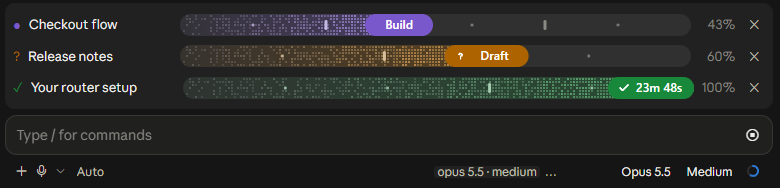
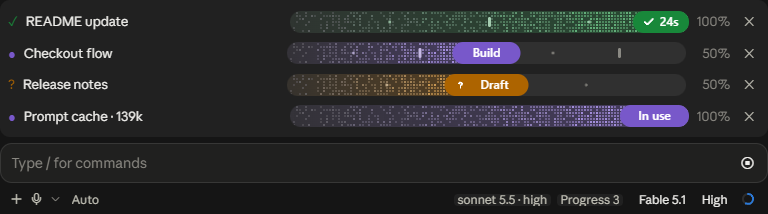
README: new hero screenshot with the cache row, footer chip, words and cache.ttl settings
The top image now shows progress bars in three states plus the prompt-cache
row, captured from the desktop app. The config example gains the words and
cache.ttl keys, the footer chip is described, and the README notes that an
open bar turns amber when a turn ends.

diff --git a/README.md b/README.md
@@ -2,7 +2,7 @@
 
 **Instruments and controls for Claude Code: see where every task is, and choose which model and effort handles it.**
 
-![Cockpit progress bars above the prompt in the Claude desktop app: running, waiting for you, and done](docs/img/bars.png)
+![Cockpit above the prompt in the Claude desktop app: progress bars for a finished, a running and a waiting task, and the prompt-cache row beneath them](docs/img/bars.png)
 
 - **Progress**: live bars above your prompt. Claude's own todo list becomes a bar automatically, so tracking progress costs zero extra tokens.
 - **Router**: you pick a model and effort for quick, normal and hard prompts in a small panel, and every prompt runs on the one that fits.
@@ -48,7 +48,7 @@ Nothing is picked for you. Until you choose, every kind is set to **Keep**, whic
 
 ![The router panel: a model and effort dropdown for each kind of prompt, your rules, the still-broken ladder and the cache saver](docs/img/router.png)
 
-Type `/route` (or click **Set up router** in the footer). A panel opens with a Model and an Effort dropdown for each kind (Keep leaves your own setting). Your choice is saved for every project.
+Type `/route` (or click **Set up router** in the footer). A panel opens with a Model and an Effort dropdown for each kind (Keep leaves your own setting). Your choice is saved for every project. After a routed reply, the footer chip shows what it ran on, such as `opus 5.5 · medium`, and clicking it reopens the panel.
 
 Prefer typing? The same in one line each:
 
@@ -107,11 +107,14 @@ Everything is saved in one file, `~/.claude/cockpit.json`, which the panel and t
   ],
   "top": "fable",
   "saver": true,
-  "cache": { "show": true, "auto": 0 }
+  "words": { "quick": ["changelog"], "hard": ["race condition"] },
+  "cache": { "show": true, "auto": 0, "ttl": "1h" }
 }
 ```
 
-A project can add its own in `.claude/cockpit.json` (same shape; its routes win and its rules come first).
+`words` adds your own words to a kind: the three kinds still use their built-in words. `cache.ttl` pins the cache lifetime; leave it out to let Cockpit work it out.
+
+A project can add its own in `.claude/cockpit.json` (same shape; its routes win, its rules come first and its `words` replace yours for that kind).
 
 ### Protecting the prompt cache
 
@@ -155,6 +158,7 @@ Want it kept warm while you are away? `/cache auto 2` lets Cockpit send up to 2 
 - For long tasks with distinct phases, Claude can show named stages instead
 - A plan you approve in plan mode becomes a bar
 - Four states: running (violet), needs input (amber), error (red), done (green, with the total time)
+- A bar still running when Claude's turn ends turns amber by itself, with why: waiting for your answer, stopped with steps left, or not updated this turn
 - Hover the pill for the running time, hover a checkpoint for when it was reached
 - Soft sounds when Claude needs a decision, hits an error or finishes (turn them off in the settings)
 - Bars are saved per session and come back when you resume it
